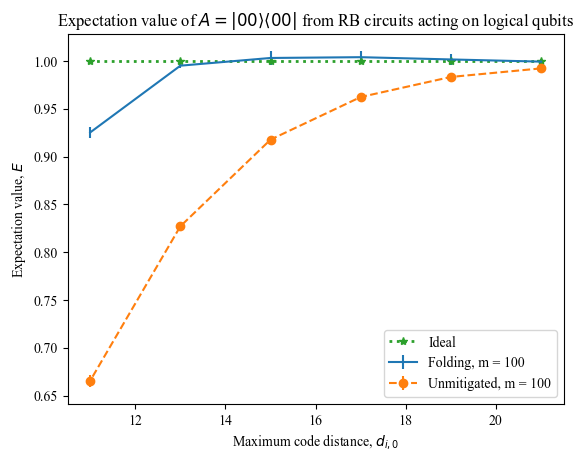
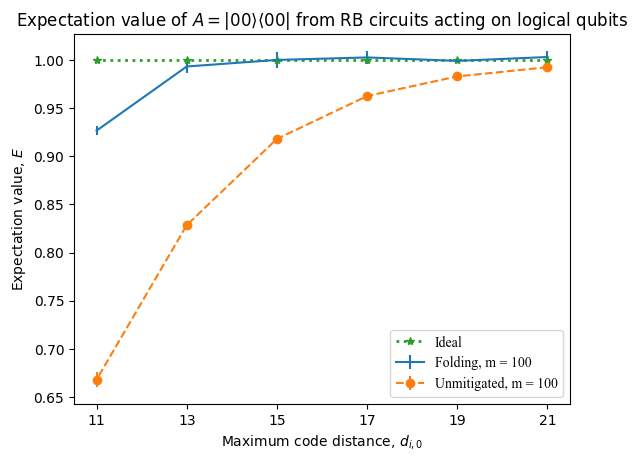
Fix x-axis ticks on plot

diff --git a/docs/source/examples/zne_logical_rb_cirq_stim.md b/docs/source/examples/zne_logical_rb_cirq_stim.md
@@ -275,6 +275,8 @@ mpl.pyplot.title(
     r"""Expectation value of $A=|00\rangle\langle00|$ from RB circuits acting on logical qubits""",
     fontsize=12,
 )
+mpl.pyplot.xticks(ticks = [11, 13, 15, 17, 19, 21])
+
 mpl.pyplot.xlabel(r"Maximum code distance, $d_{i,0}$")
 mpl.pyplot.ylabel(r"Expectation value, $E$")
 
